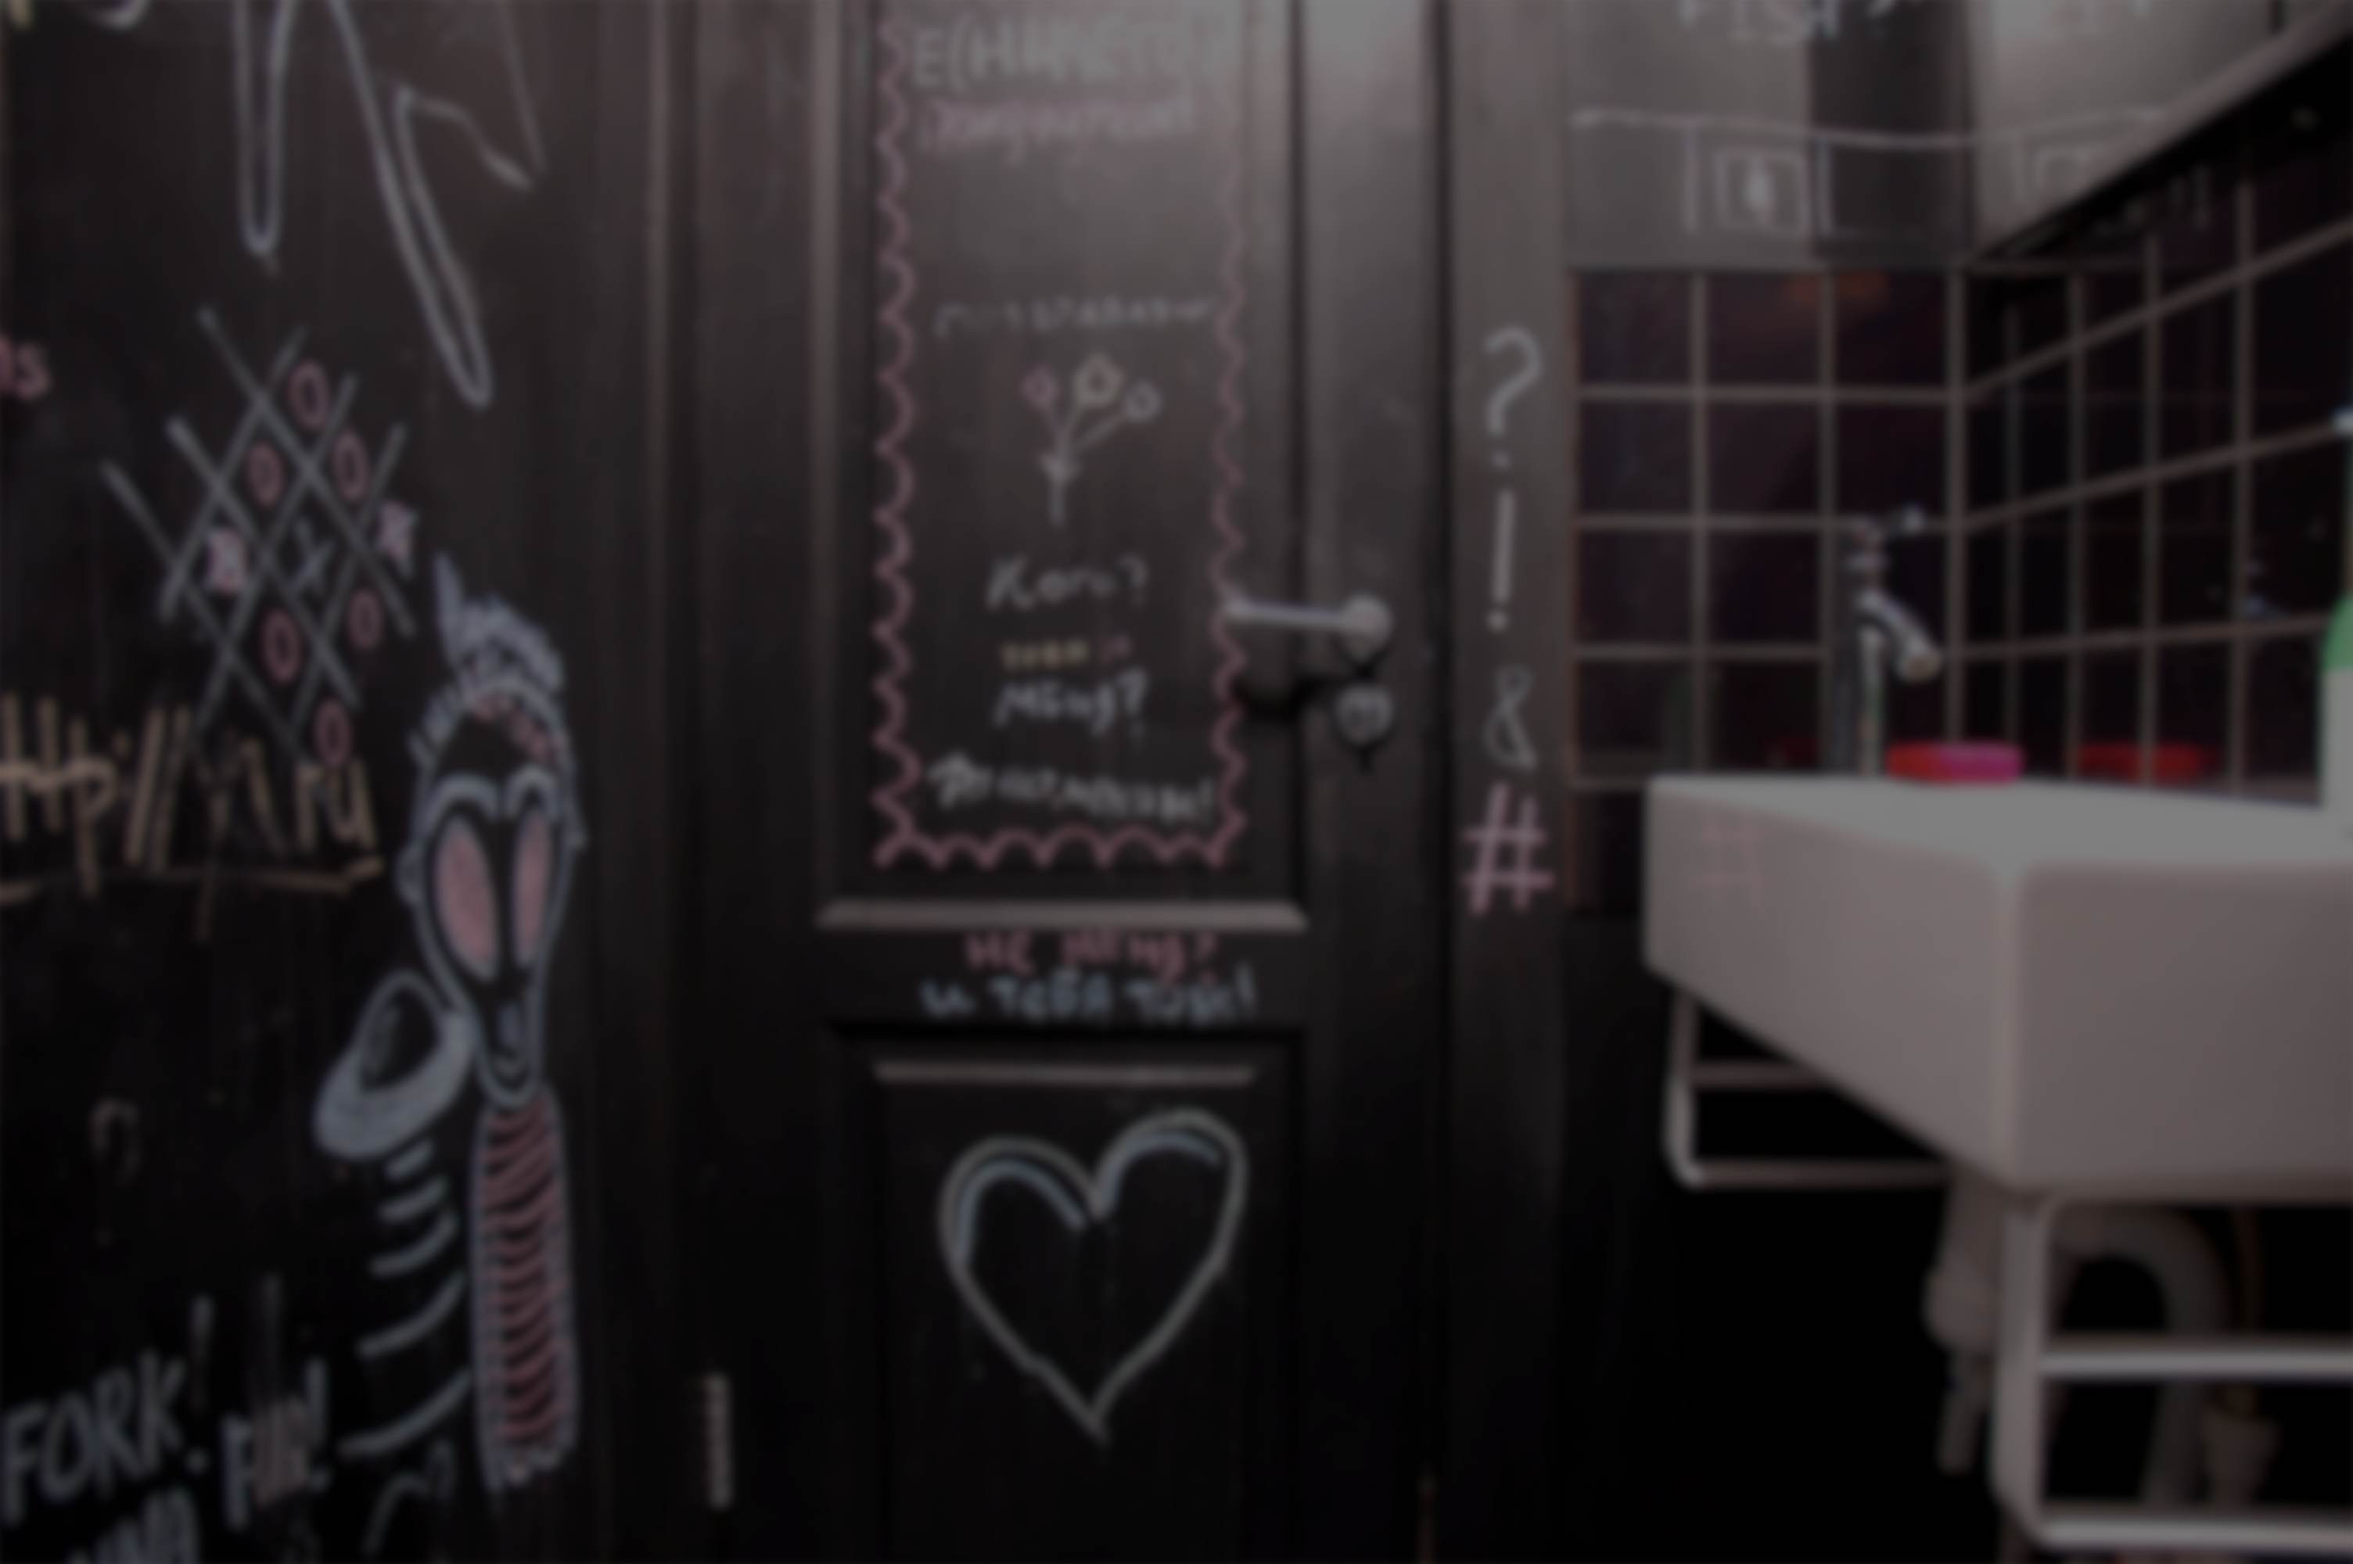
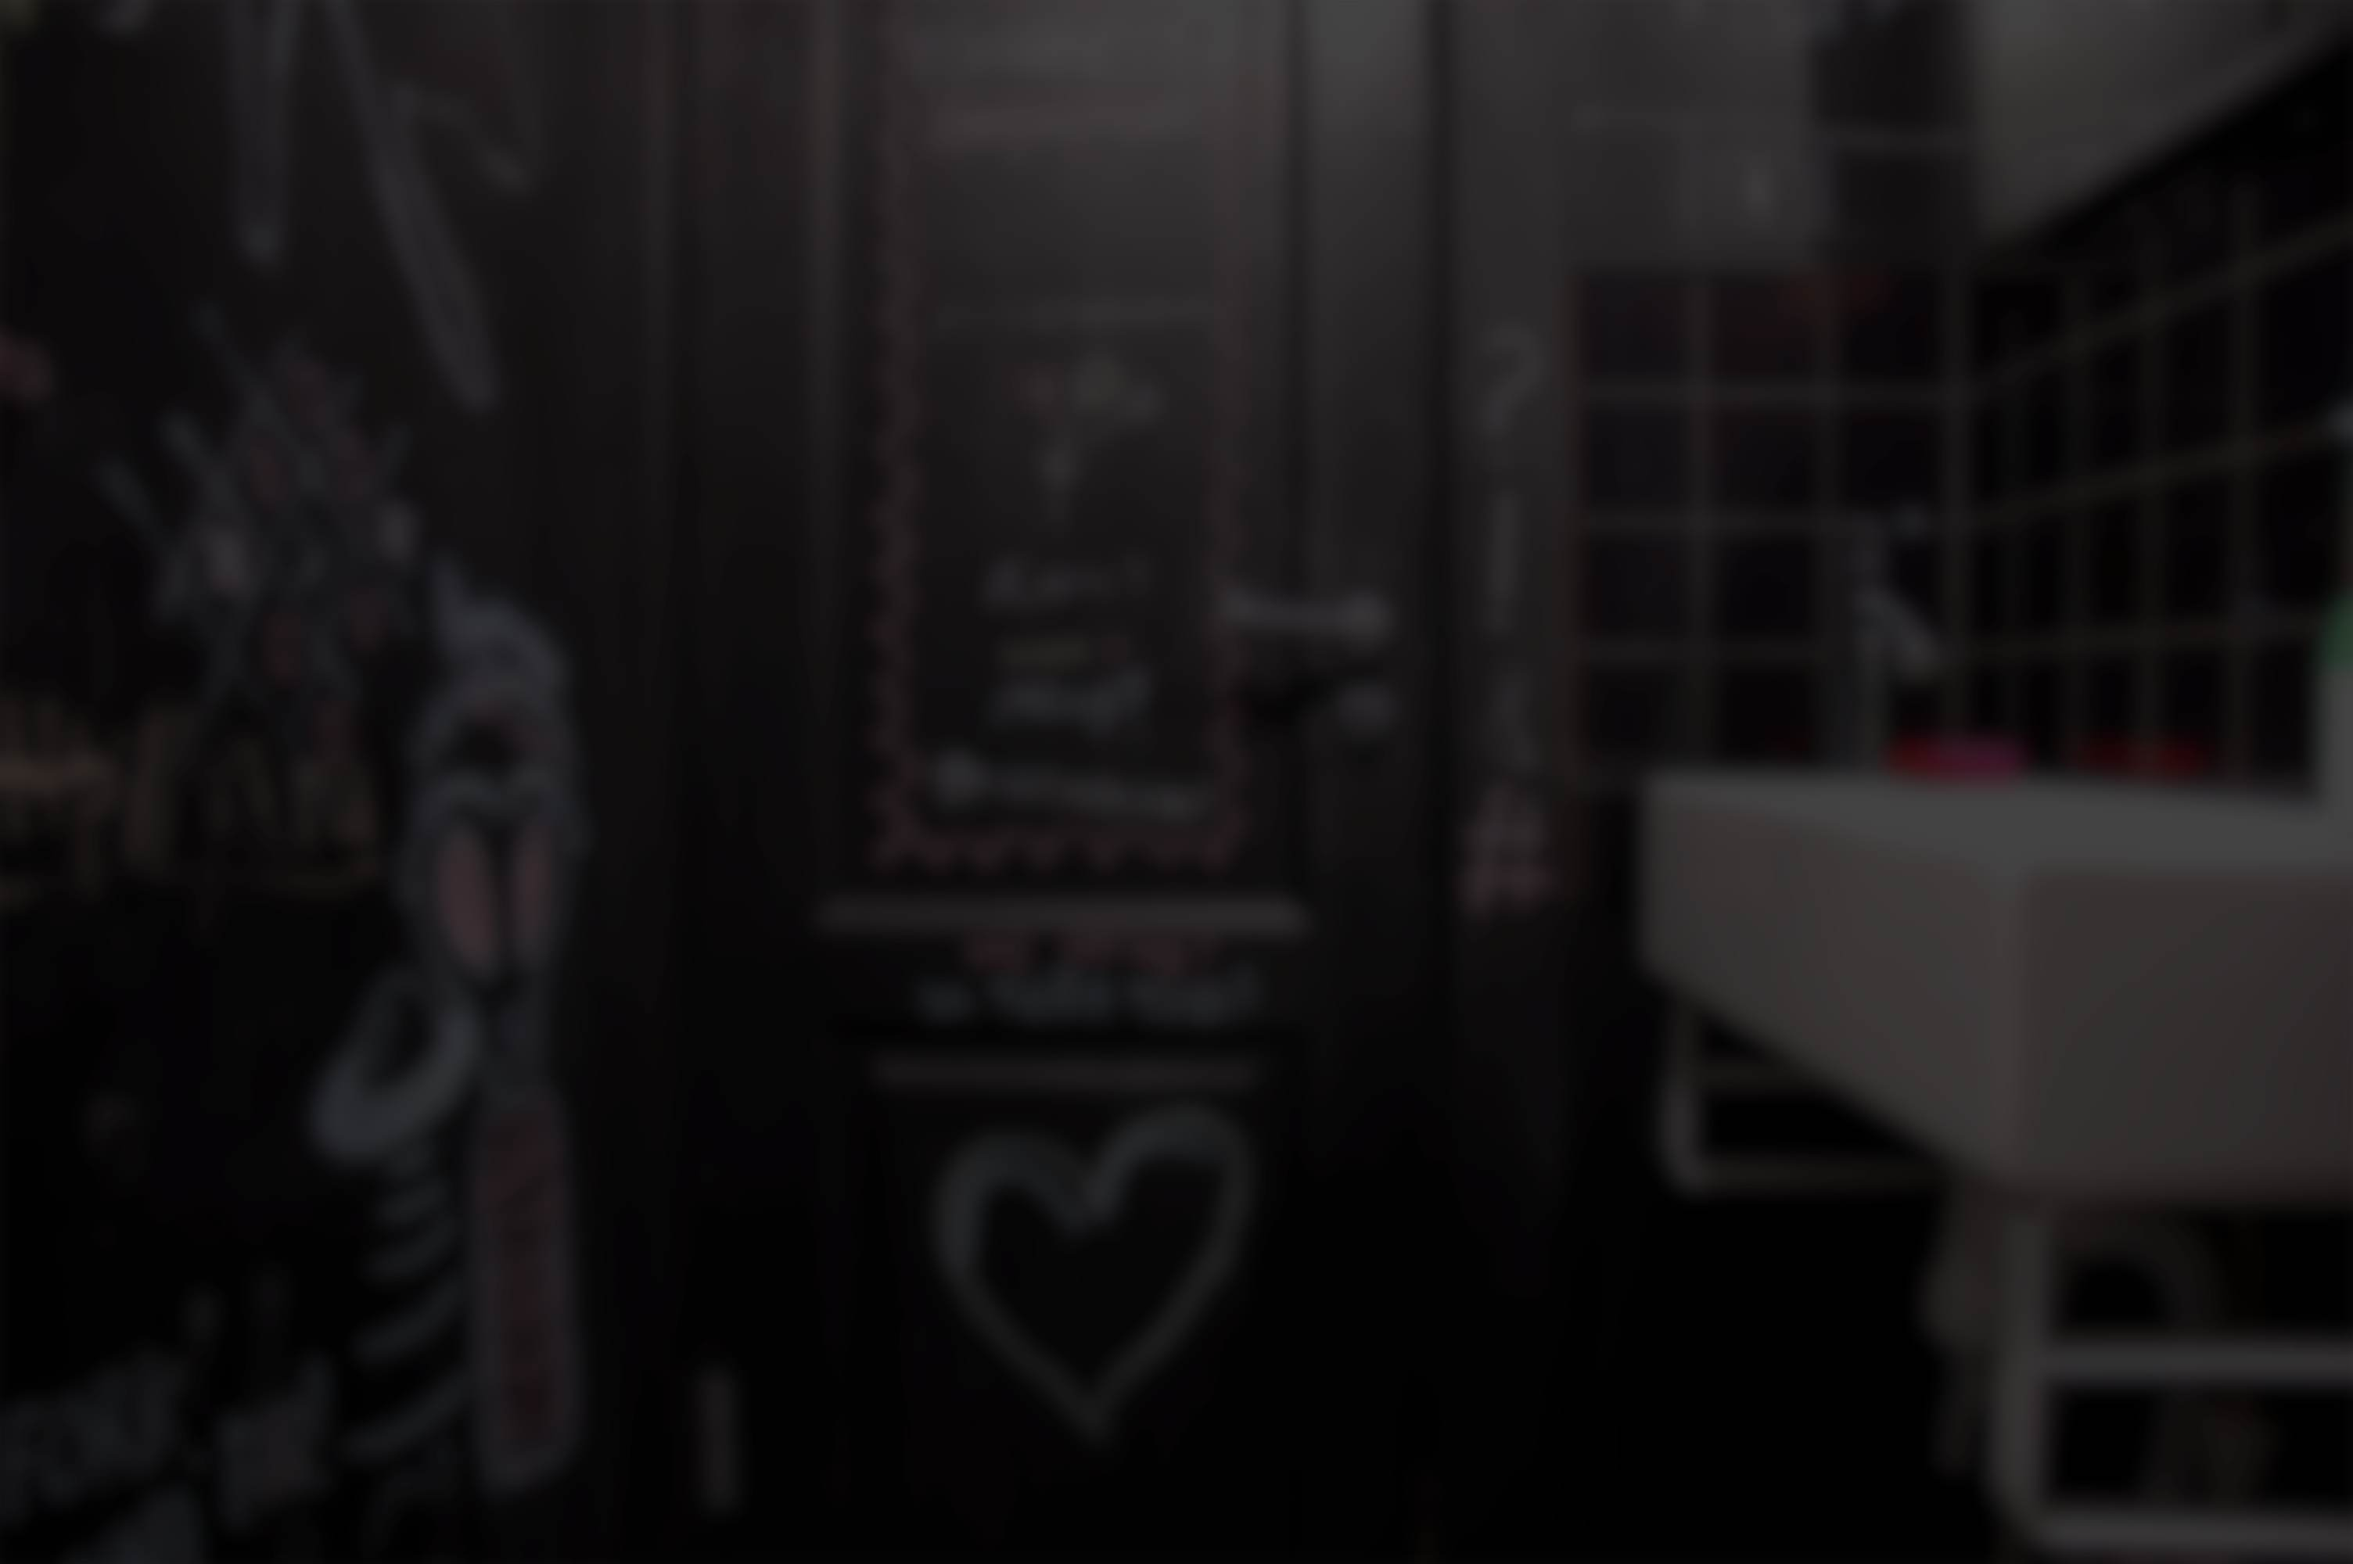
scroll is disabled

diff --git a/index.html b/index.html
@@ -23,12 +23,15 @@
 	  <div class="blurred" style="background:url(img/photo-blurred.jpg) no-repeat center center; background-size: cover;"></div>
 	  </div>
 	  
-	  <div class="bit-button bit-button-visual" style="margin-top: 170px;">
-		  <div class="label-text start-text ">Начать тест</div>
-	  </div>
+	  
+		  <div class="bit-button bit-button-visual" style="margin-top: 170px;">
+			 <div class="label-text start-text">Начать тест</div>
+		  </div>
+	  
+	  <div class="ruby-big"></div>
 	  
 	  
-	  <div class="content large-6 large-centered column">
+	  <div id="content-link" class="content large-6 large-centered column">
 		  <h1 class="start-margin" style="margin-top: 270px;">Тестовое задание</h1>
 		  <h2 class="block-margin">Требования</h2>
 		  <p class="article-margin">Тестовое задание заключается в том, что нужно запрограммировать решение задачи на ruby. Результат должен быть выложен либо в отдельном Github репозитории, либо в Gist. </p>
@@ -65,42 +68,8 @@
 		  -->		
 	  </div>
 	  
-	  
-	  <script>
-	  function fader() {
-		  var r = $('.blurred'), // берем все элементы, имеющие класс .blurred
-		  wh = $(window).height(), // тут берем высоту окна
-		  dt = $(document).scrollTop(), // отступ от верха, наверно для каждого браузера
-		  step = $('.image-wrap').css('height'), // разбиваем img на линии(шаги)
-		  elView, opacity, scrolled,
-		  n = 10;
-		  
-
-		  // Loop elements with class "blurred"
-			  r.each(function() {
-				  scrolled = $(document).scrollTop();
-				  temp = scrolled / n;
-				  //alert(temp);
-				  if (temp < 100) {
-					  opacity = 0.1 * temp;
-				  }
-				  $(this).css('opacity', opacity);
-			  }
-		  );
-	  }
-	  
-	  $(document).bind('scroll', fader);
-	  
-	  (function() {
-	    $(window).scroll(function() {
-	      var oVal;
-	      oVal = $(window).scrollTop() / 240;
-	      return $(".blur").css("opacity", oVal);
-	    });
-
-	  }).call(this);
-	  
-	  </script>
+	  <script src="js/transition.js"></script>
+	  <script src="js/blur.js"></script>
 	  
 	  
   </body>

diff --git a/js/blur.js b/js/blur.js
@@ -1,0 +1,34 @@
+
+	  function fader() {
+		  var r = $('.blurred'), // берем все элементы, имеющие класс .blurred
+		  wh = $(window).height(), // тут берем высоту окна
+		  dt = $(document).scrollTop(), // отступ от верха, наверно для каждого браузера
+		  step = $('.image-wrap').css('height'), // разбиваем img на линии(шаги)
+		  elView, opacity, scrolled,
+		  n = 10;
+		  
+
+		  // Loop elements with class "blurred"
+			  r.each(function() {
+				  scrolled = $(document).scrollTop();
+				  temp = scrolled / n;
+				  //alert(temp);
+				  if (temp < 100) {
+					  opacity = 0.1 * temp;
+				  }
+				  $(this).css('opacity', opacity);
+			  }
+		  );
+	  }
+	  
+	  $(document).bind('scroll', fader);
+	  
+	  (function() {
+	    $(window).scroll(function() {
+	      var oVal;
+	      oVal = $(window).scrollTop() / 240;
+	      return $(".blur").css("opacity", oVal);
+	    });
+
+	  }).call(this);
+	  

diff --git a/css/main.css b/css/main.css
@@ -1,3 +1,7 @@
+html {
+	overflow: hidden;
+}
+
 .start-margin {
 	margin-top: 80px;
 }
@@ -50,6 +54,37 @@ form {
 	left: 30px;
 }
 
+.ruby-big {
+    width: 218px;
+    height: 205px;
+	position: relative;
+	top: -400px;
+	margin: auto;
+	background-image: url('../img/ruby-big.png');
+	background-repeat: no-repeat;
+}
+
+.ruby-big:hover {
+    -webkit-animation: move 0.6s ease-in-out;
+}
+
+
+@-webkit-keyframes move {
+	0%,100% { 
+		-webkit-transform-origin: bottom center; 
+	}
+	10% { -webkit-transform: rotate(-11deg); }	
+	20% { -webkit-transform: rotate(8deg); opacity: 0.9 }
+	30% { -webkit-transform: rotate(-7deg); }	
+	40% { -webkit-transform: rotate(5deg); }	
+	50% { -webkit-transform: rotate(-3deg); }
+	
+	60% { -webkit-transform: rotate(2deg); }
+	70% { -webkit-transform: rotate(-2deg); }
+	80% { -webkit-transform: rotate(1deg); }
+	90% { -webkit-transform: rotate(-1deg); }
+	100% { -webkit-transform: rotate(0deg); }
+}
 
 @-webkit-keyframes scale {
     10% {

diff --git a/js/transition.js b/js/transition.js
@@ -1,0 +1,4 @@
+$('.bit-button').click(function() {
+  $('html').css('overflow', 'visible');
+  $('html, body').animate({scrollTop: $("#content-link").offset().top - 100}, 2000);
+});
